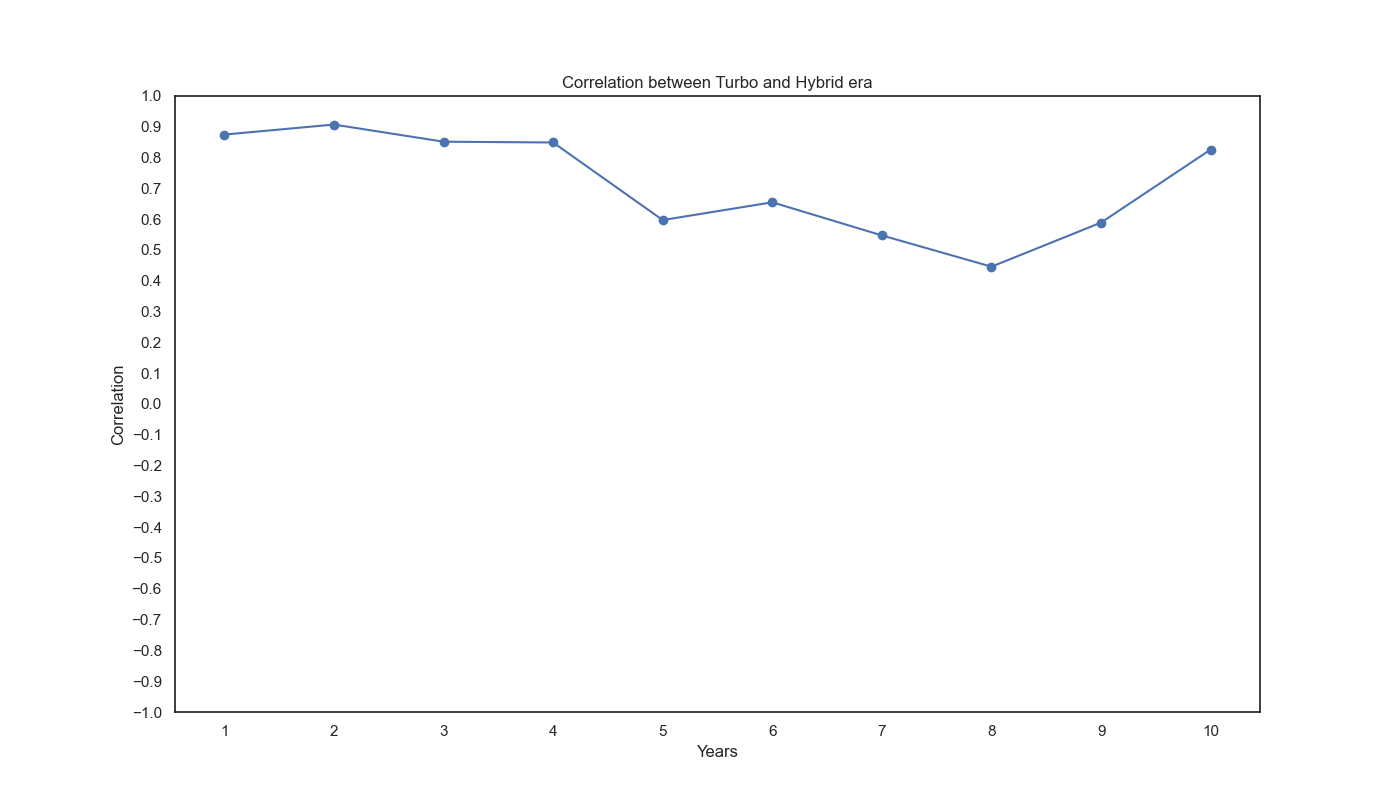
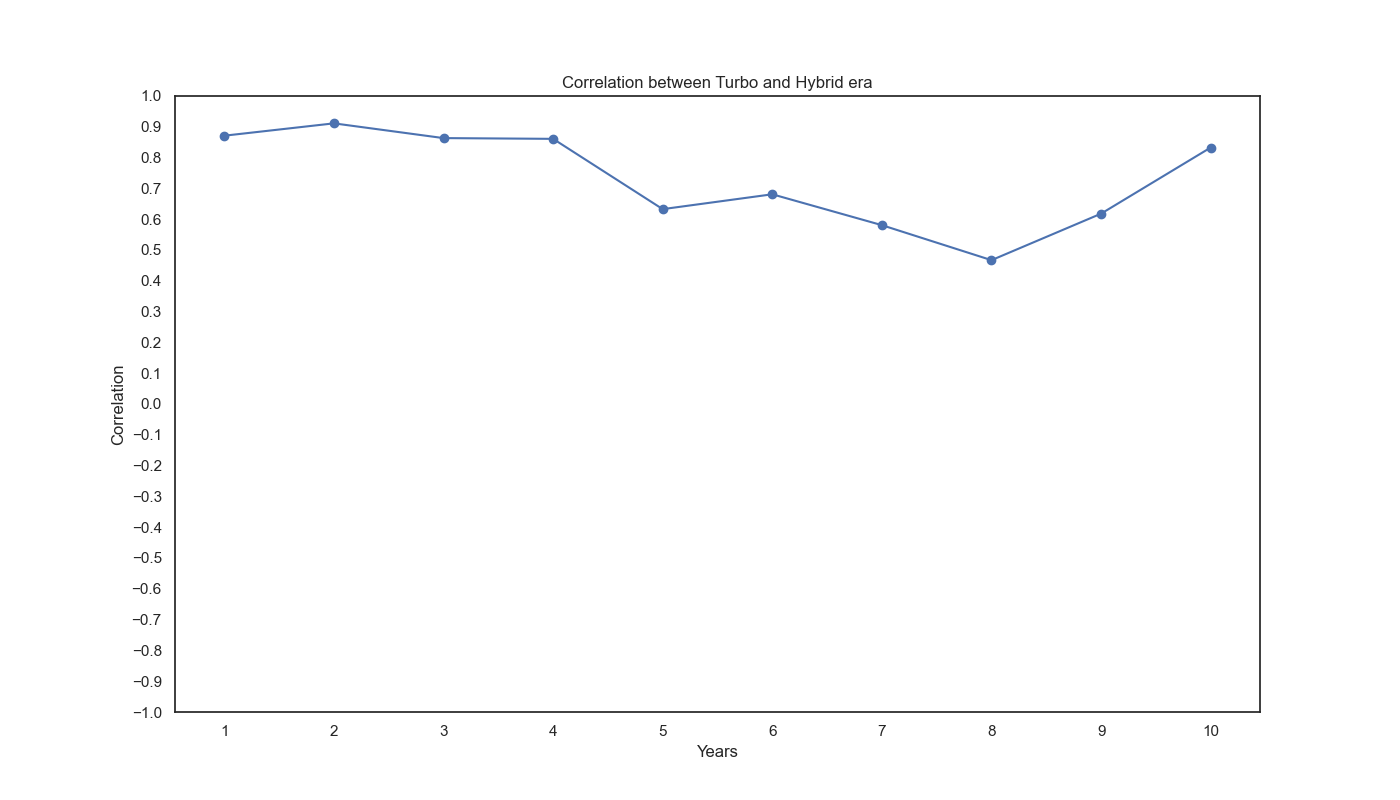
Code Correction

diff --git a/main.py b/main.py
@@ -32,6 +32,9 @@ custom_colors = [   '#945417', '#1eabfa', '#a22780', '#ecb920',
 licircuits =    ['Austrian Grand Prix', 'Belgian Grand Prix', 'British Grand Prix',
                 'Canadian Grand Prix', 'Italian Grand Prix', 'Monaco Grand Prix']
             
+ligroups =      ['Engine', 'Gearbox', 'Powertrain', 'Suspension', 'Electrical', 'Tyre',
+                 'Fluid systems', 'Chassis', 'Driver-related', 'Overheating', 'Accident',
+                 'Not classified', 'Disqualified', 'Turbo']
 
 if 'p' in args:
     print('Plotting data...')
@@ -154,6 +157,14 @@ if 'a' in args:
     
     df_hybrid_newys = df_hybrid.groupby(['year', 'status']).size().reset_index(name='counts')
     df_hybrid_newys = df_hybrid_newys.pivot(index=['status'], columns='year', values='counts')
+
+    # reindex the dataframes with the ligroups
+    df_turbo_newys = df_turbo_newys.reindex(ligroups, level=0, fill_value=0)
+    df_hybrid_newys = df_hybrid_newys.reindex(ligroups, level=0, fill_value=0)
+    
+    # Sort the rows by the index
+    df_turbo_newys.sort_index(inplace=True)
+    df_hybrid_newys.sort_index(inplace=True)
     
     # plot the correlation between the two eras as a line chart with data points
     plt.title('Correlation between Turbo and Hybrid era')
@@ -177,6 +188,14 @@ if 'a' in args:
     df_hybrid_circuit = df_hybrid.groupby(['year', 'circuit', 'status']).size().reset_index(name='counts')
     df_hybrid_circuit = df_hybrid_circuit.pivot(index=['circuit', 'status'], columns='year', values='counts')
     df_hybrid_circuit = df_hybrid_circuit.fillna(0)
+
+    # reindex the dataframes with the ligroups
+    df_turbo_circuit = df_turbo_circuit.reindex(ligroups, level=1, fill_value=0)
+    df_hybrid_circuit = df_hybrid_circuit.reindex(ligroups, level=1, fill_value=0)
+
+    # sort the dataframes by the index
+    df_turbo_circuit.sort_index(inplace=True)
+    df_hybrid_circuit.sort_index(inplace=True)
 
     for circuit in df_turbo_circuit.index.get_level_values(0).unique():
         plt.title('Correlation between Turbo and Hybrid era (' + str(circuit) + ')')
